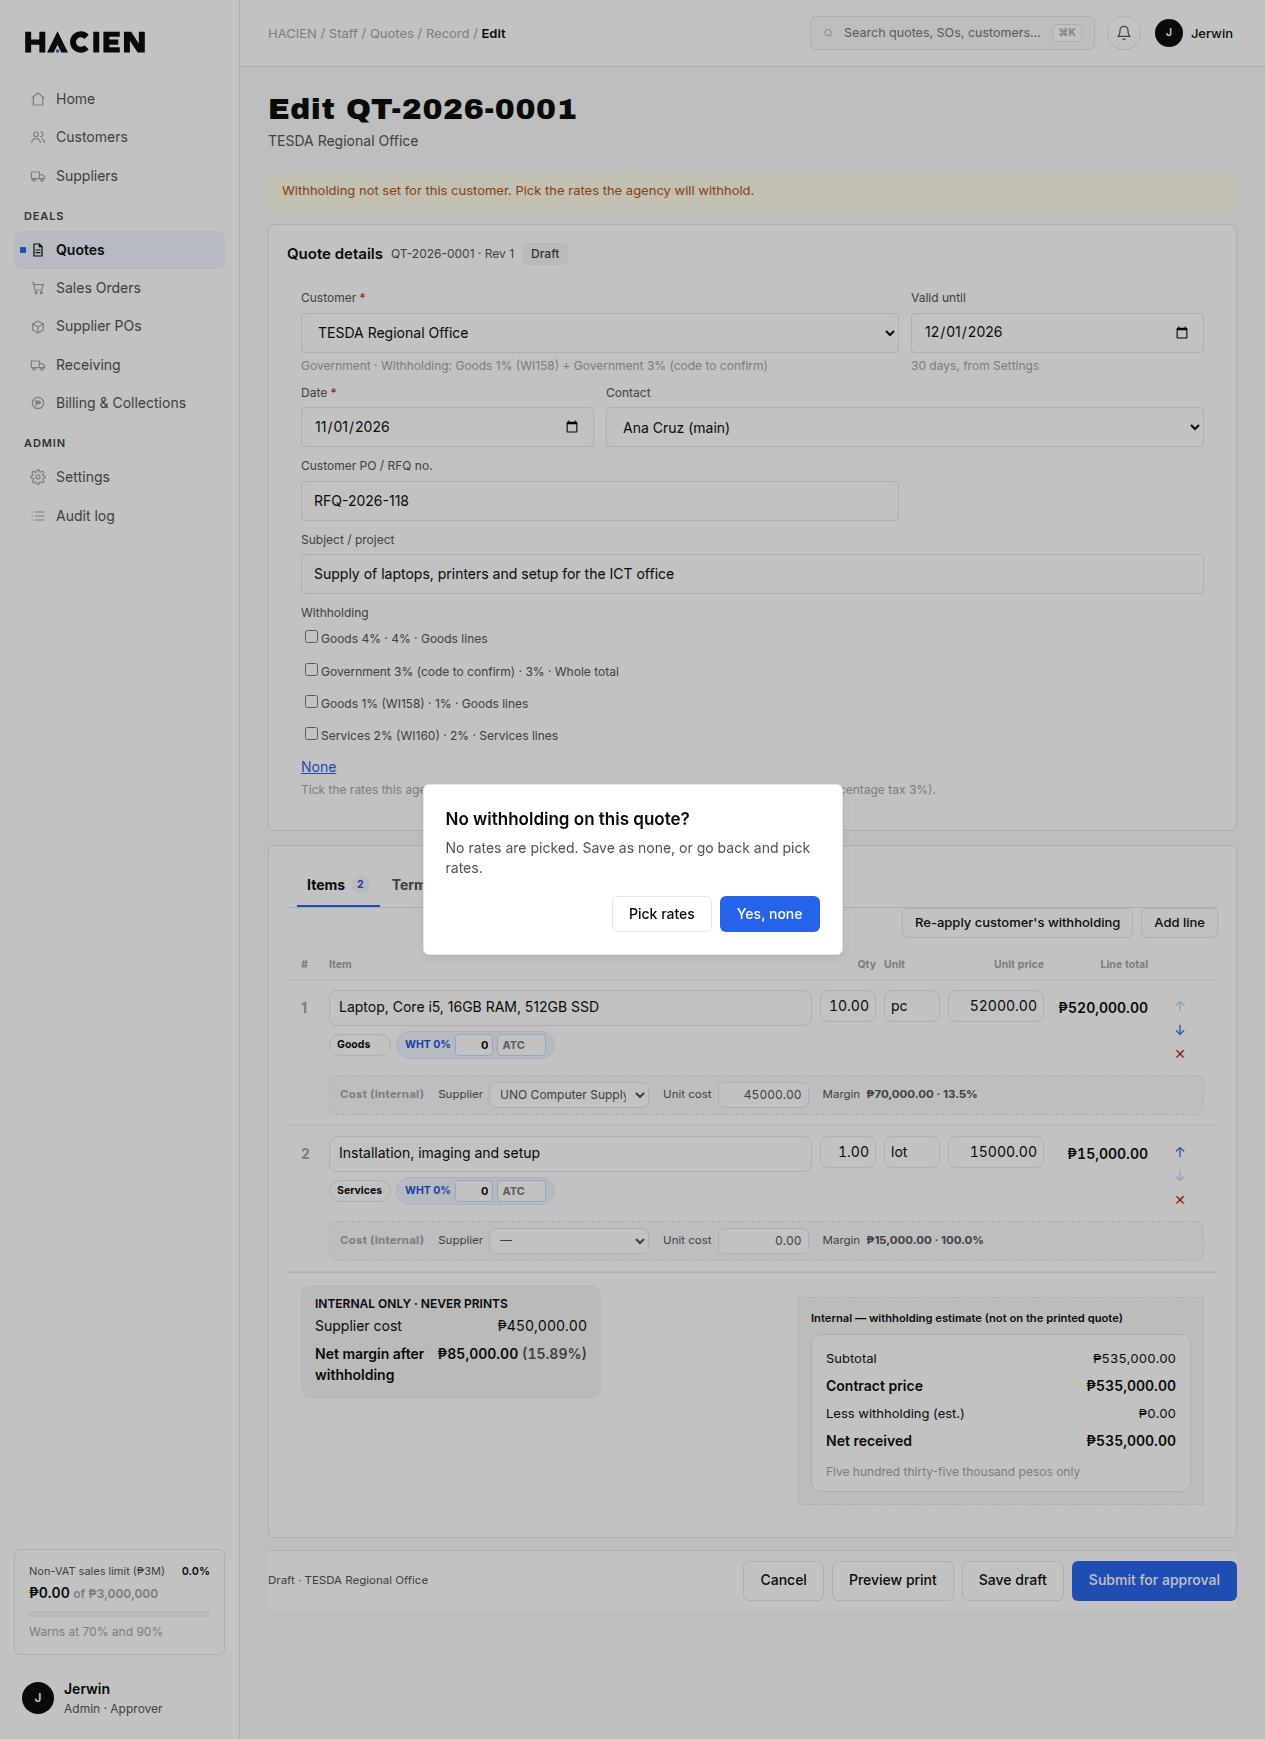
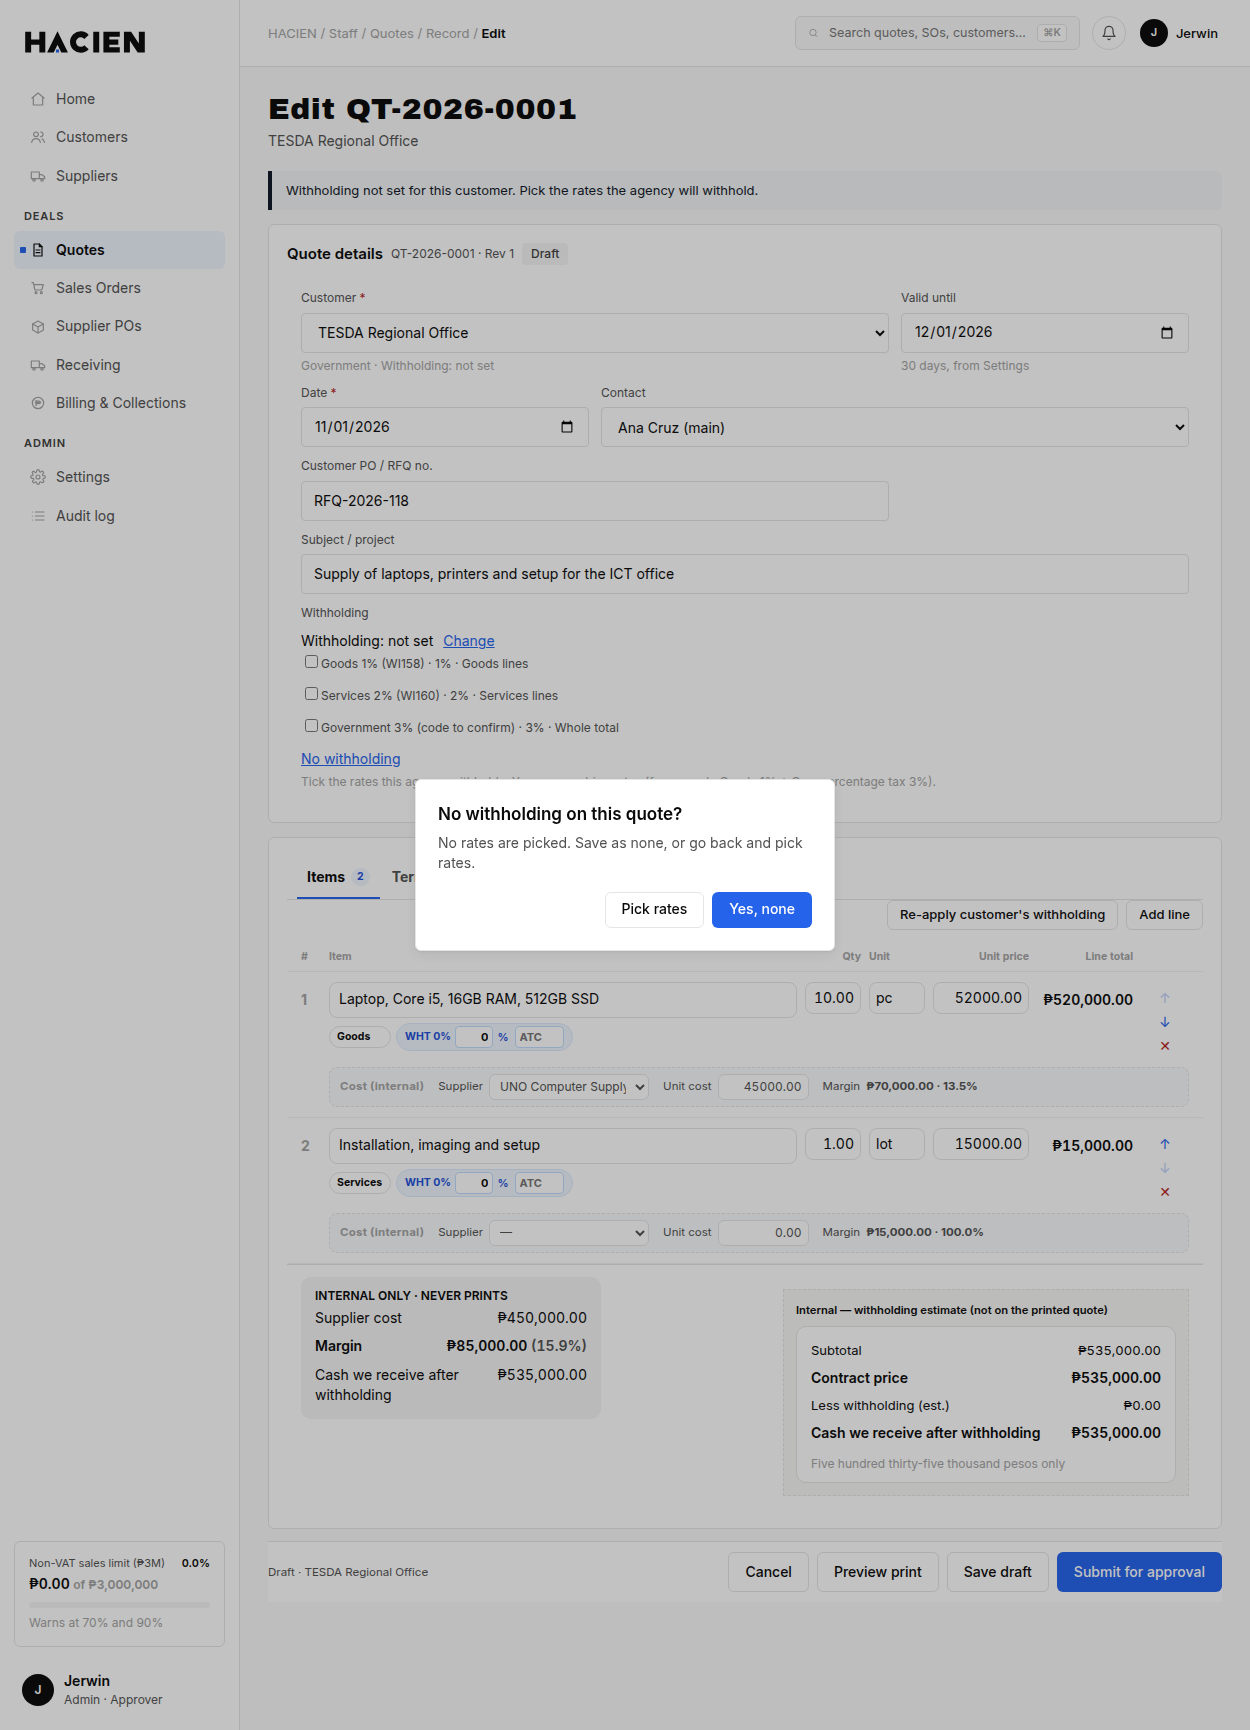
fix(tax): show pick ATC on lines; refresh pass-2 screenshots
Display the pick-derived ATC code when the line has no override, and
treat blank ATC with a matching rate as not-an-override. Retake 1280/360
shots (quote pick/not-set/confirm, customer Yes/No, print).

diff --git a/src/components/docs/QuoteEditor.tsx b/src/components/docs/QuoteEditor.tsx
@@ -22,6 +22,7 @@ import {
 } from "@/lib/quotes/calc";
 import {
   lineDiffersFromUsualPicks,
+  lineWithholdingFromPicks,
   lineWithholdingSnapshotFromPicks,
   WITHHOLDING_NOT_SET_NOTICE,
   WITHHOLDING_NONE_CONFIRM_TITLE,
@@ -659,7 +660,12 @@ export function QuoteEditor({
                   const pct = Object.prototype.hasOwnProperty.call(whPctDrafts, i.key) ? whPctDrafts[i.key]! : pctFromRate;
                   const showOverride =
                     i.withholdingOverride || lineDiffersFromUsualPicks(linePicks, i.kind, { rate: i.withholdingRate, atc: i.withholdingAtc });
-                  const govAtc = isUnverifiedGovAtc(i.withholdingAtc);
+                  const pickAtc = lineWithholdingFromPicks(linePicks, i.kind).atc;
+                  const displayAtc =
+                    i.withholdingOverride || (i.withholdingAtc != null && String(i.withholdingAtc).trim() !== "")
+                      ? i.withholdingAtc
+                      : pickAtc;
+                  const govAtc = isUnverifiedGovAtc(displayAtc);
                   const supplierName = suppliers?.find((s) => s.id === i.supplierId)?.name ?? "";
                   const below = toScaled(a.margin, 2) < 0n;
                   const marginPct = Number(a.total) !== 0 ? ((Number(a.margin) / Number(a.total)) * 100).toFixed(1) : "0.0";
@@ -683,7 +689,7 @@ export function QuoteEditor({
                             </select>
                             <span
                               className="quote-tg quote-tg-wh"
-                              title={govAtc ? `${GOV_ATC_CODE_TO_CONFIRM}${i.withholdingAtc ? ` (${i.withholdingAtc})` : ""}` : i.withholdingAtc ?? undefined}
+                              title={govAtc ? `${GOV_ATC_CODE_TO_CONFIRM}${displayAtc ? ` (${displayAtc})` : ""}` : displayAtc ?? undefined}
                             >
                               <span className="quote-tg-wh-label">{whLabel}</span>
                               <input
@@ -701,9 +707,9 @@ export function QuoteEditor({
                               <input
                                 aria-label={`Line ${idx + 1} ATC`}
                                 className="w-atc"
-                                value={govAtc ? "" : (i.withholdingAtc ?? "")}
+                                value={govAtc ? "" : (displayAtc ?? "")}
                                 placeholder={govAtc ? GOV_ATC_CODE_TO_CONFIRM : "ATC"}
-                                title={govAtc ? GOV_ATC_CODE_TO_CONFIRM : i.withholdingAtc ?? undefined}
+                                title={govAtc ? GOV_ATC_CODE_TO_CONFIRM : displayAtc ?? undefined}
                                 onChange={(ev) => changeLineWithholding(i.key, { withholdingAtc: ev.target.value || null })}
                               />
                             </span>
@@ -794,7 +800,12 @@ export function QuoteEditor({
                   const pct = Object.prototype.hasOwnProperty.call(whPctDrafts, i.key) ? whPctDrafts[i.key]! : pctFromRate;
                   const showOverride =
                     i.withholdingOverride || lineDiffersFromUsualPicks(linePicks, i.kind, { rate: i.withholdingRate, atc: i.withholdingAtc });
-                  const govAtc = isUnverifiedGovAtc(i.withholdingAtc);
+                  const pickAtc = lineWithholdingFromPicks(linePicks, i.kind).atc;
+                  const displayAtc =
+                    i.withholdingOverride || (i.withholdingAtc != null && String(i.withholdingAtc).trim() !== "")
+                      ? i.withholdingAtc
+                      : pickAtc;
+                  const govAtc = isUnverifiedGovAtc(displayAtc);
                   const supplierName = suppliers?.find((s) => s.id === i.supplierId)?.name ?? "";
                   return (
                     <article key={`m-${i.key}`} className="quote-line-card">
@@ -920,9 +931,9 @@ export function QuoteEditor({
                           <input
                             aria-label={`Line ${idx + 1} ATC`}
                             className="w-atc"
-                            value={govAtc ? "" : (i.withholdingAtc ?? "")}
+                            value={govAtc ? "" : (displayAtc ?? "")}
                             placeholder={govAtc ? GOV_ATC_CODE_TO_CONFIRM : "ATC"}
-                            title={govAtc ? GOV_ATC_CODE_TO_CONFIRM : i.withholdingAtc ?? undefined}
+                            title={govAtc ? GOV_ATC_CODE_TO_CONFIRM : displayAtc ?? undefined}
                             onChange={(ev) => changeLineWithholding(i.key, { withholdingAtc: ev.target.value || null })}
                           />
                         </span>

diff --git a/src/lib/quotes/withholding-defaults.ts b/src/lib/quotes/withholding-defaults.ts
@@ -313,8 +313,11 @@ export function lineDiffersFromUsualPicks(
   if (stored.rate == null || String(stored.rate).trim() === "") return false;
   const usual = lineWithholdingFromPicks(picks, kind);
   const rate = Number(stored.rate).toFixed(4);
-  const atc = stored.atc ?? null;
-  return rate !== usual.rate || atc !== usual.atc;
+  if (rate !== usual.rate) return true;
+  const atc = stored.atc != null && String(stored.atc).trim() !== "" ? String(stored.atc).trim() : null;
+  // Blank ATC with a matching rate is not an override (legacy combined rows omitted ATC).
+  if (atc == null) return false;
+  return atc !== (usual.atc ?? null);
 }
 
 /**
